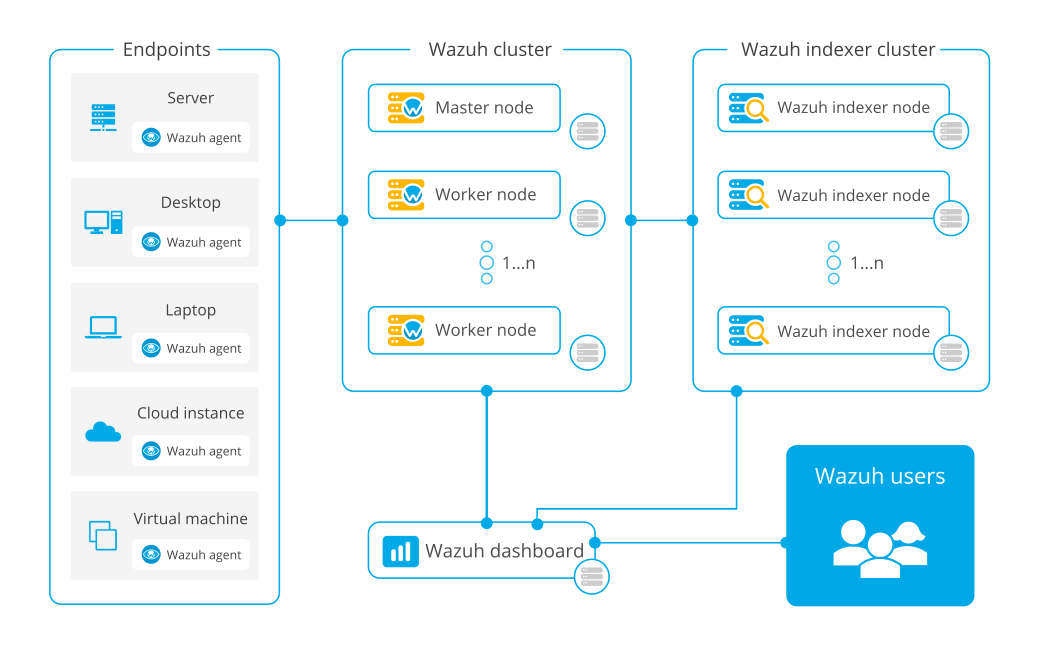
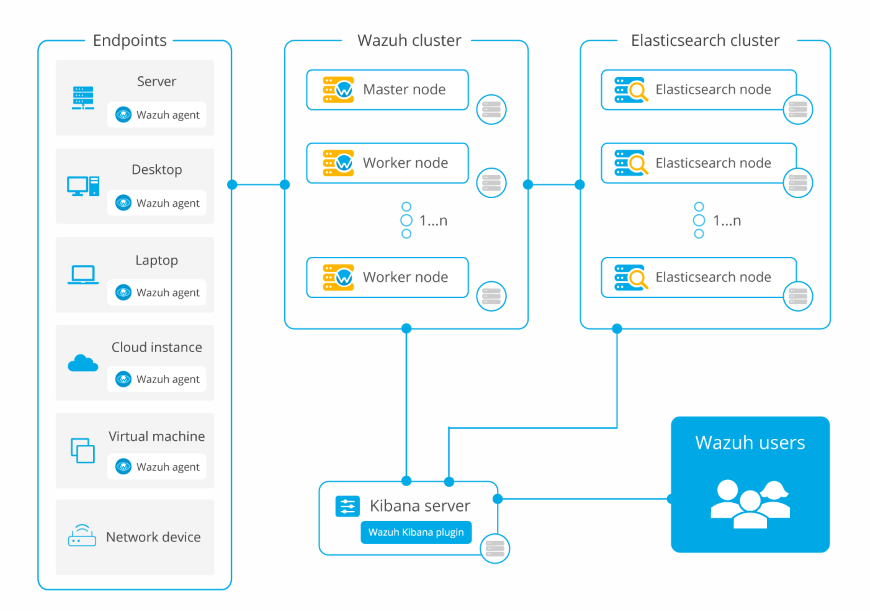
wazuh deployment image changed

diff --git a/source/installation-guide/index.rst b/source/installation-guide/index.rst
@@ -46,7 +46,7 @@ The Wazuh server and the Wazuh indexer can each be installed as a single-node or
 
 The diagram below represents a Wazuh deployment architecture. It shows the solution components and how the Wazuh servers and Wazuh indexer can be configured as a cluster, providing load balancing and high-availability.
 
-.. thumbnail:: ../images/installation/distributed2.png
+.. thumbnail:: ../images/installation/distributed.png
     :alt: Wazuh deployment
     :align: center
     :wrap_image: No
